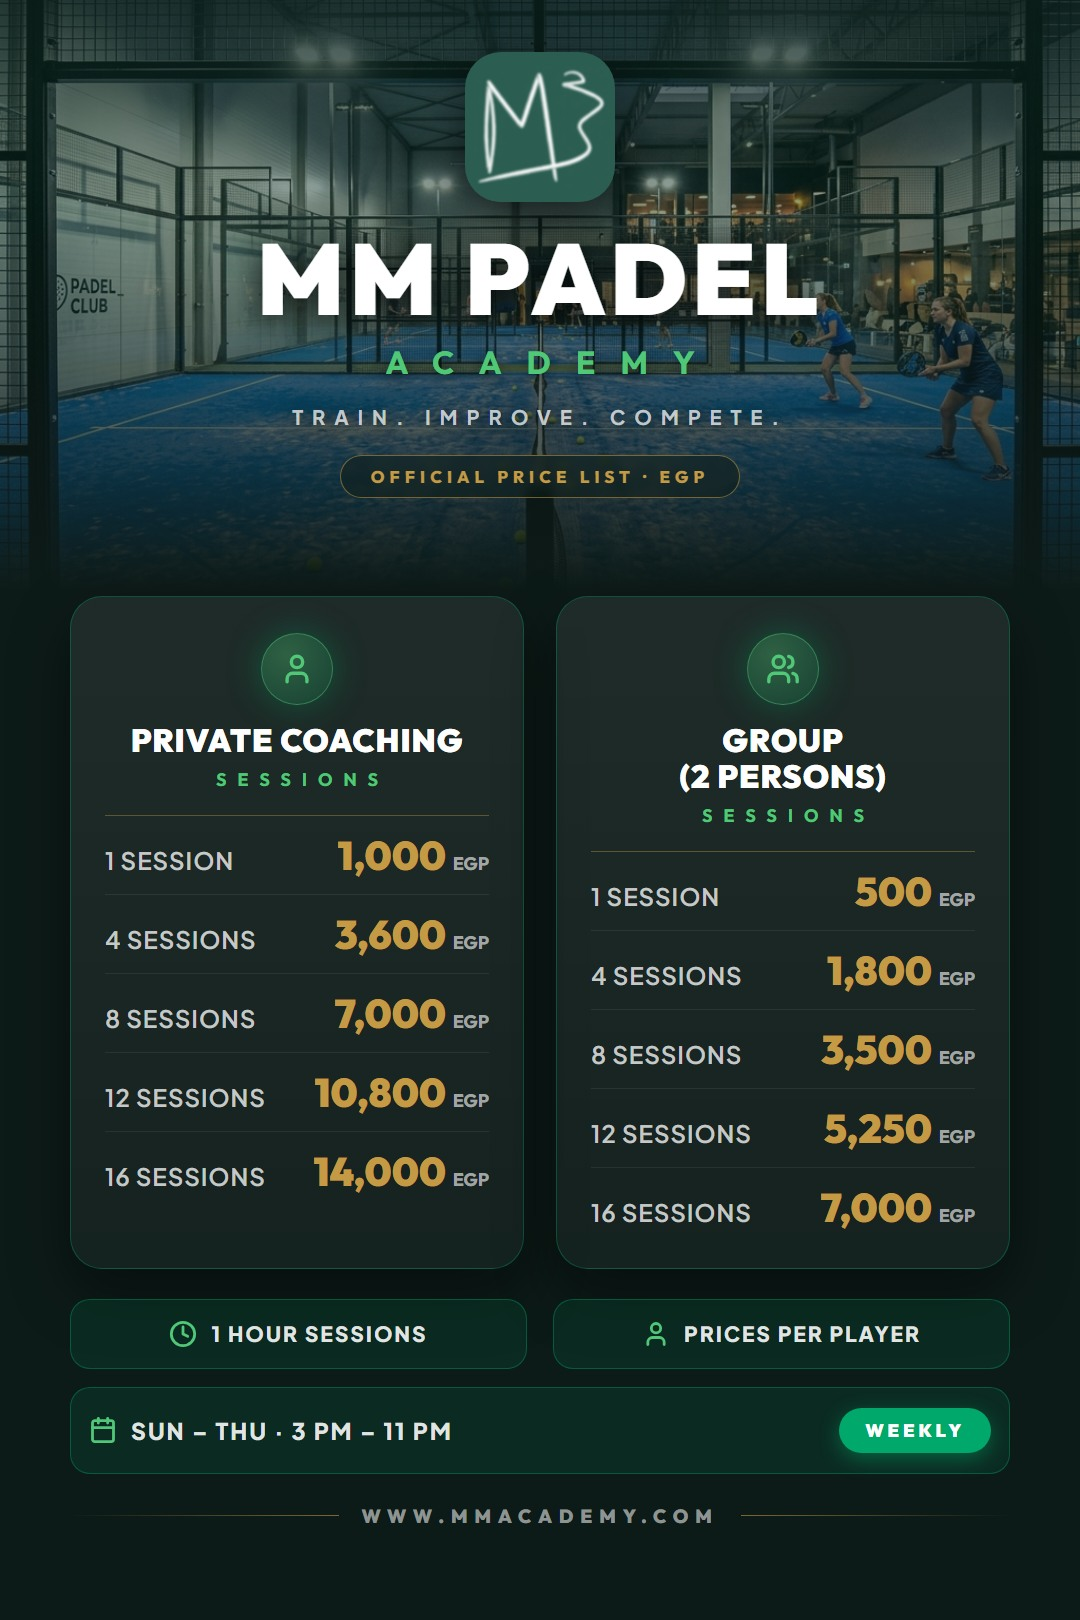
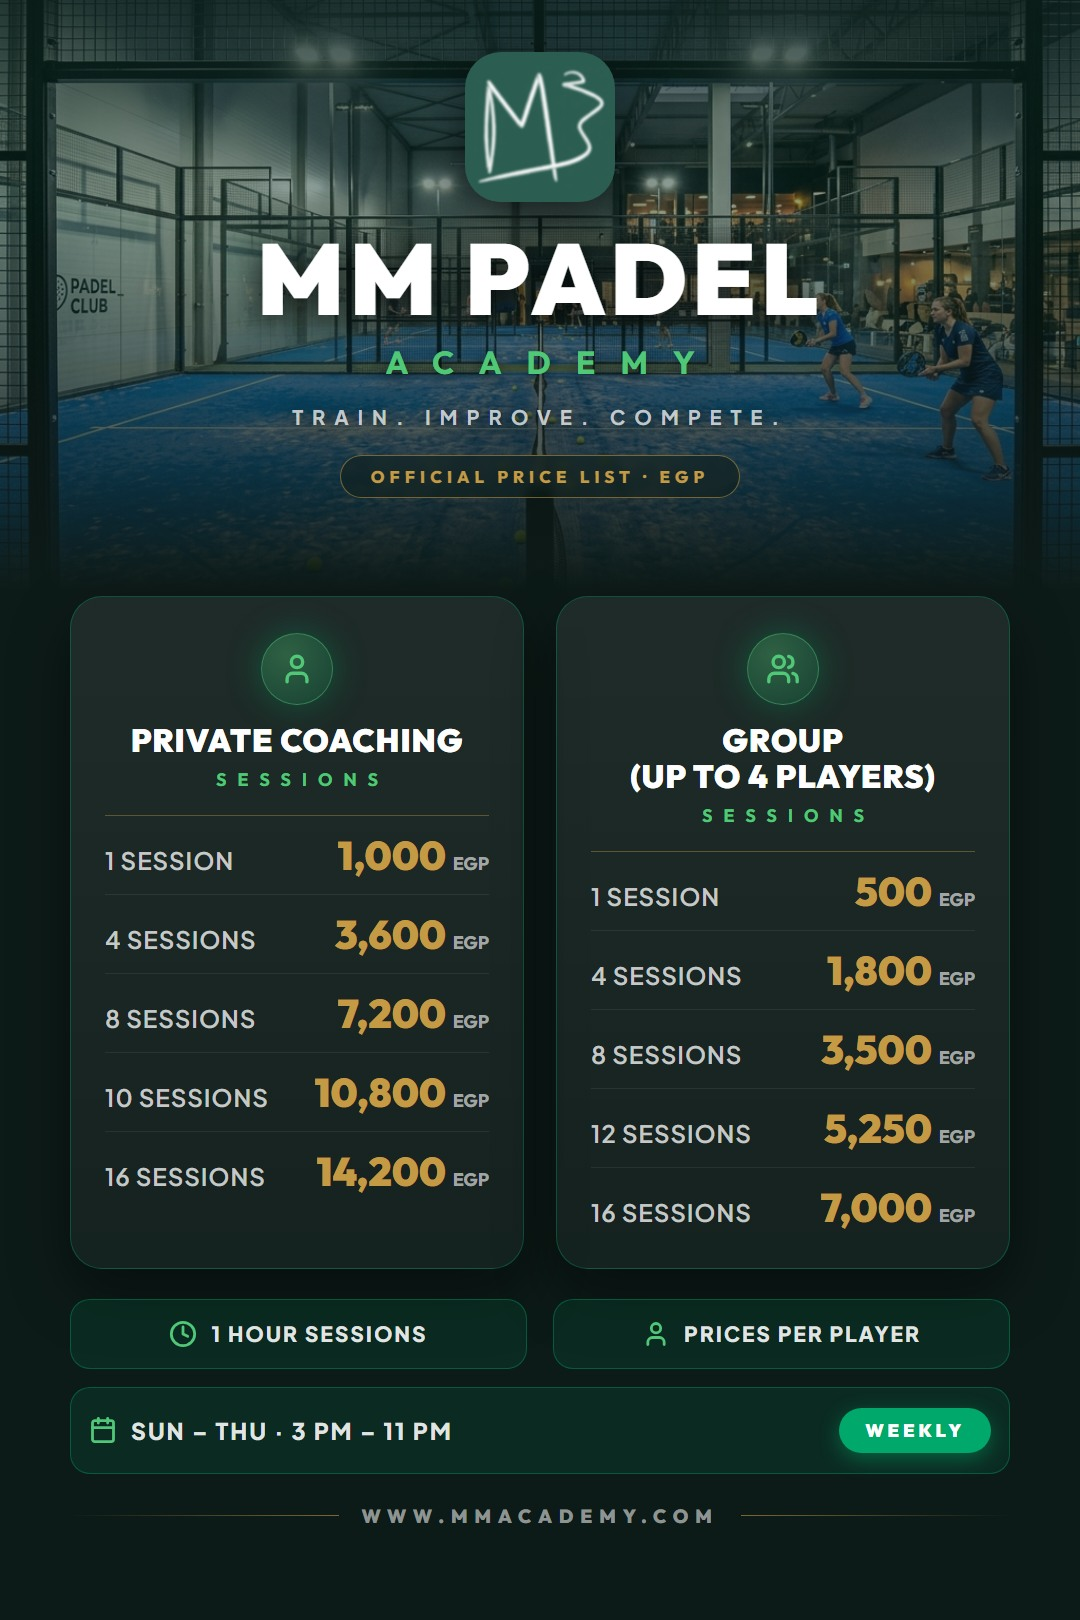
feat(pricing): private tiers 1/4/8/10/16 and group rename to Up to 4 Players
- Private: 1=1,000 / 4=3,600 / 8=7,200 / 10=10,800 / 16=14,200 (12 replaced by the named 10-pack)
- Group prices unchanged; renamed Group (Up to 4 Players) in labels, copy, and poster
- bestCoverage: break -> continue (non-monotonic prices: 15P 15,400 > 16P 14,200)
- Pack tiers (0,4,8,10,16) across pricing.js, periodSplit, packageAdvice, one-off scripts
- Pricing poster regenerated; Home pricing card renders packages side by side
- Tests reworked and extended: 65/65 passing

diff --git a/server/src/utils/pricing.js b/server/src/utils/pricing.js
@@ -11,7 +11,7 @@
  */
 
 export const PRICING = {
-  private: { 1: 1000, 4: 3600, 8: 7000, 12: 10800, 16: 14000 },
+  private: { 1: 1000, 4: 3600, 8: 7200, 10: 10800, 16: 14200 },
   group: { 1: 500, 4: 1800, 8: 3500, 12: 5250, 16: 7000 },
 }
 
@@ -77,9 +77,9 @@ function priceTable(type, max, staff = false) {
  * without exceeding `amount` — ties broken toward more private sessions
  * (private is the primary product), then more sessions.
  *
- * Examples (9 unpaid private, amount 7,000) → (8, 0): the 8-pack is 7,000,
+ * Examples (9 unpaid private, amount 7,200) → (8, 0): the 8-pack is 7,200,
  * so 8 sessions are covered and 1 stays unpaid.
- * Examples (16 unpaid private + 3 unpaid group, amount 15,500) → (16, 3).
+ * Examples (16 unpaid private + 3 unpaid group, amount 15,200) → (16, 2).
  */
 export function bestCoverage(amount, maxPrivate = 0, maxGroup = 0, opts = {}) {
   const cap = Math.max(0, Math.floor(Number(amount) || 0))
@@ -92,13 +92,16 @@ export function bestCoverage(amount, maxPrivate = 0, maxGroup = 0, opts = {}) {
   const pTable = priceTable('private', maxP, opts.staff)
   const gTable = priceTable('group', maxG, opts.staff)
 
+  // NOTE: greedy package prices are NOT monotonic in count (15P = 15,400 costs
+  // more than the 16-pack at 14,200), so neither loop may `break` early on a
+  // too-expensive row — every count must be considered.
   let best = { private: 0, group: 0, value: -1 }
   for (let p = 0; p <= maxP; p++) {
     const pv = pTable[p]
-    if (pv > cap) break
+    if (pv > cap) continue
     for (let g = 0; g <= maxG; g++) {
       const value = pv + gTable[g]
-      if (value > cap) break
+      if (value > cap) continue
       if (
         value > best.value ||
         (value === best.value && p > best.private) ||
@@ -113,10 +116,10 @@ export function bestCoverage(amount, maxPrivate = 0, maxGroup = 0, opts = {}) {
 }
 
 /**
- * Cheapest per-session rate in a tier table (e.g. private 16-pack = 875/session).
+ * Cheapest per-session rate in a tier table (e.g. private 16-pack = 887.5/session).
  * sessionsForAmount needs this — capping at the SINGLE rate assumes no session
  * ever costs less than one, which is false with bulk discounts and made the
- * 16-pack / 18-private answers unreachable (14,000 → 11P+9G instead of 16P).
+ * 16-pack answers unreachable (14,200 → fragmented mix instead of 16P).
  */
 function cheapestRate(type, staff = false) {
   const tier = tierFor(type, staff)
@@ -132,7 +135,7 @@ function cheapestRate(type, staff = false) {
 /**
  * Free credit for money that buys NEW sessions — same search but unbounded
  * (capped at what the cheapest per-session rate could ever buy, so bulk
- * packages are reachable: 14,000 → 16P, 16,000 → 18P).
+ * packages are reachable: 14,200 → 16P, 16,000 → 14P+3G).
  */
 export function sessionsForAmount(amount, opts = {}) {
   const cap = Math.max(0, Math.floor(Number(amount) || 0))
@@ -147,25 +150,25 @@ export function sessionsForAmount(amount, opts = {}) {
 //
 // A payment over 2 sessions is mapped to the NEAREST single-tier pack —
 // never single-session rates:
-//   * pack = (p, g) with p ∈ {0,4,8,12,16}, g ∈ {0,4,8,12,16} (each component a
-//     named package tier, mixed pairs allowed — Farida's 16P+8G = 17,500),
+//   * pack = (p, g) with p ∈ {0,4,8,10,16}, g ∈ {0,4,8,12,16} (each component a
+//     named package tier, mixed pairs allowed — Farida's 16P+8G = 17,700),
 //   * the pack is nearest to the CASH; upward packs may exceed it by at most
 //     15% (the "don't cost them a lot" cap),
 //   * DEBT PULL: when the cash-nearest pack is dusty (not an exact fit) AND
 //     the session debt exceeds that pack, re-target to the debt — a player
 //     clearing debt buys the pack that covers it (Farida's 16,000 against a
-//     17,500 debt → the 17,500 pack, −1,500 owed). An exact cash pack is
-//     never overridden (7,000 → the 8-pack stays, partial debt stays session
-//     debt),
+//     17,700 debt → the 17,700 pack, −1,700 owed). An exact cash pack is
+//     never overridden (7,000 → the 16-group pack stays, partial debt stays
+//     session debt),
 //   * ties → smaller pack (less owed), then more private,
-//   * values above the (16,16) = 21,000 catalog peel (16,16) packs first.
+//   * values above the (16,16) = 21,200 catalog peel (16,16) packs first.
 //
 // The difference cash − pack_value is the signed CASH GAP the caller records
 // on the ledger: negative = shortfall the player pays next month, positive =
 // prepaid cash carried forward. For pools ≤ 2 sessions the caller keeps the
 // exact value-max mix (singles allowed) — the exemption for small payments.
 // ---------------------------------------------------------------------------
-export const PACK_PRIVATE_TIERS = [0, 4, 8, 12, 16]
+export const PACK_PRIVATE_TIERS = [0, 4, 8, 10, 16]
 export const PACK_GROUP_TIERS = [0, 4, 8, 12, 16]
 export const PACK_UPWARD_TOLERANCE = 0.15
 
@@ -216,7 +219,7 @@ export function nearestPackPool(amount, debt = 0, opts = {}) {
   const base = pickFor(a)
   const baseDist = Math.abs(base.value - a)
   // Debt pull: only when the cash-nearest pack is dusty AND the debt exceeds
-  // it — an exact cash pack (7,000 → 8-pack) is never overridden.
+  // it — an exact cash pack (7,000 → 16-group pack) is never overridden.
   if (baseDist > 1e-6 && d > base.value + 1e-6) {
     const pulled = pickFor(Math.max(a, d))
     if (pulled.value >= base.value) return pulled

diff --git a/src/data/homeShowcase.js b/src/data/homeShowcase.js
@@ -1,7 +1,18 @@
 // Showcase content for the Home page (imagery + marketing copy).
-// Pricing truth lives in pricingData.js — the numbers below mirror it.
+// Pricing truth lives in pricingData.js — package strings below derive from it.
+
+import { PRICING } from './pricingData'
 
 const BASE = import.meta.env.BASE_URL
+
+// "1 Session (1,000 EGP) • 4 Sessions (3,600 EGP) • ..." from the live table.
+const packagesText = (type) =>
+  Object.keys(PRICING[type])
+    .filter((k) => k !== 'name')
+    .map(Number)
+    .sort((a, b) => a - b)
+    .map((c) => `${c} Session${c > 1 ? 's' : ''} (${PRICING[type][c].toLocaleString('en-US')} EGP)`)
+    .join(' • ')
 
 // Hero background video (Option 2 preview) — captured at the academy.
 export const HERO_VIDEO = `${BASE}videos/mm-padel-hero.mp4`
@@ -85,7 +96,7 @@ export const FAQS = [
   },
   {
     q: 'How much does a session cost?',
-    a: 'Private coaching starts at 1,000 EGP per player and group (2 persons) at 500 EGP per player, with multi-session package discounts.',
+    a: 'Private coaching starts at 1,000 EGP per player and group (up to 4 players) at 500 EGP per player, with multi-session package discounts.',
   },
   {
     q: 'How do I book a session?',
@@ -101,7 +112,7 @@ export const FAQS = [
   },
   {
     q: 'What is the difference between private and group coaching?',
-    a: 'Private sessions are focused 1-on-1 work; group sessions train two players together at a matched level for shared drills and match play.',
+    a: 'Private sessions are focused 1-on-1 work; group sessions train up to four players together at a matched level for shared drills and match play.',
   },
   {
     q: 'How do I track my remaining sessions?',
@@ -119,7 +130,7 @@ export const PROGRAMS = [
     image: `${import.meta.env.BASE_URL}images/court.png`,
     description:
       'Dedicated 1-on-1 coaching with personalised drills and technique work.',
-    packages: '1 Session (1,000 EGP) • 4 Sessions (3,600 EGP) • 8 Sessions (7,000 EGP) • 12 Sessions (10,800 EGP) • 16 Sessions (14,000 EGP)',
+    packages: packagesText('private'),
     features: [
       'Dedicated personal coach',
       'Technique, footwork & glass play',
@@ -129,15 +140,15 @@ export const PROGRAMS = [
   },
   {
     id: 'group',
-    title: 'Group (2 Persons)',
+    title: 'Group (Up to 4 Players)',
     priceText: '500 EGP / session',
     level: 'All Levels',
     duration: '1 Hour',
     image: `${import.meta.env.BASE_URL}images/clinic.png`,
-    description: 'High-energy 2-person group training matched by skill level.',
-    packages: '1 Session (500 EGP) • 4 Sessions (1,800 EGP) • 8 Sessions (3,500 EGP) • 16 Sessions (7,000 EGP)',
+    description: 'High-energy group training for up to 4 players, matched by skill level.',
+    packages: packagesText('group'),
     features: [
-      '2-person group sessions',
+      'Group sessions up to 4 players',
       'Match scenario drills',
       'Per player rate • 1 Hour duration',
       'Sun–Thu, 3:00 PM – 11:00 PM',

diff --git a/src/lib/packageAdvice.js b/src/lib/packageAdvice.js
@@ -5,7 +5,7 @@ import { PRICING, calculatePrice } from '../data/pricingData.js'
  * player detail. Mirrors server/_recommend-unpaid.mjs:
  *
  *   p_equiv  = P + G/2          (settlement rule 1P = 2G)
- *   nearest  = argmin |p_equiv - t| over tiers [1,4,8,12,16], tie -> larger
+ *   nearest  = argmin |p_equiv - t| over tiers [1,4,8,10,16], tie -> larger
  *   clearAll = smallest tier pack that covers every unpaid session and pays
  *              at an EXACT pack price (receipt "clear everything" option;
  *              roundUp/secondStep below are legacy private-only fields kept
@@ -15,14 +15,14 @@ import { PRICING, calculatePrice } from '../data/pricingData.js'
  * only labels it (server remains source of truth for paid status).
  */
 
-export const PRIVATE_TIERS = [1, 4, 8, 12, 16]
+export const PRIVATE_TIERS = [1, 4, 8, 10, 16]
 
 // ---------------------------------------------------------------------------
 // Clear-all pack — mirrors the server's Best-Package Rule (pricing.js
 // nearestPackPool + paymentAllocation) so the advice says "pay EGP X and
 // every unpaid session is covered", where X resolves to an EXACT pool on the
 // server (cash_gap = 0):
-//   * tier packs: p ∈ {0,4,8,12,16}, g ∈ {0,4,8,12,16} — peel (16,16) = 21,000
+//   * tier packs: p ∈ {0,4,8,10,16}, g ∈ {0,4,8,12,16} — peel (16,16) = 21,200
 //     packs above the catalog, same as server pickFor,
 //   * the allocator's ≤2-session singles exemption: 1G=500, 1P=1000,
 //     1P+1G=1500, 2P=2000 (exact value-max mixes),
@@ -30,9 +30,9 @@ export const PRIVATE_TIERS = [1, 4, 8, 12, 16]
 //     conversion) must be ≥ debt units, so the FIFO walk clears every slot,
 //   * smallest price wins, tie → more private.
 // ---------------------------------------------------------------------------
-const TIER_PRIVATE = [0, 4, 8, 12, 16]
+const TIER_PRIVATE = [0, 4, 8, 10, 16]
 const TIER_GROUP = [0, 4, 8, 12, 16]
-const MAX_PACK_VALUE = PRICING.private[16] + PRICING.group[16] // (16,16) = 21,000
+const MAX_PACK_VALUE = PRICING.private[16] + PRICING.group[16] // (16,16) = 21,200
 const SINGLES_MIXES = [
   { private: 0, group: 1, price: PRICING.group[1] },
   { private: 1, group: 0, price: PRICING.private[1] },

diff --git a/src/pages/Book.jsx b/src/pages/Book.jsx
@@ -38,7 +38,7 @@ const tierTag = (type) => {
 
 const SESSION_TYPES = [
   { value: 'private', label: 'Private Coaching', sub: '1-on-1 Personalised Coaching', tag: tierTag('private') },
-  { value: 'group', label: 'Group (2 Persons)', sub: '2-Person Group Session', tag: tierTag('group') },
+  { value: 'group', label: 'Group (Up to 4 Players)', sub: 'Group Session · Up to 4 Players', tag: tierTag('group') },
 ]
 
 const DAY_OPTIONS = [
@@ -267,7 +267,7 @@ export default function Book() {
               {sessionType === 'group' && (
                 <div className="pt-2 space-y-1.5">
                   <label className="block text-xs font-semibold text-theme uppercase tracking-wider">
-                    Partner name <span className="text-muted normal-case font-medium">(2-person group)</span>
+                    Partner name <span className="text-muted normal-case font-medium">(group session)</span>
                   </label>
                   {user ? (
                     <PlayerSearchInput

diff --git a/server/src/utils/periodSplit.js b/server/src/utils/periodSplit.js
@@ -11,7 +11,7 @@ import db from '../db.js'
  *     pre-period (arrears) / in-period / future-scheduled sessions and
  *     unclaimed credit (1P = 2G weight, so the parts sum to the amount),
  *   - packages sold: in-window payments whose (P, G) counts form a named
- *     tier pack (4/8/12/16 P, 4/8/12/16 G, mixed pairs like 16P+8G),
+ *     tier pack (4/8/10/16 P, 4/8/12/16 G, mixed pairs like 16P+8G),
  *   - private sessions without package: in-window private sessions that are
  *     paid but NOT covered by a named pack (singles, odd mixes, direct
  *     booking-flagged slots).
@@ -25,7 +25,7 @@ import db from '../db.js'
  */
 
 export const WEIGHT_PRIVATE = 2 // locked conversion 1P = 2G
-const PACK_PRIVATE_TIERS = [4, 8, 12, 16]
+const PACK_PRIVATE_TIERS = [4, 8, 10, 16]
 const PACK_GROUP_TIERS = [4, 8, 12, 16]
 
 /** Named-tier pack per the locked price list (mixed pairs allowed). */

diff --git a/server/src/utils/paymentAllocation.js b/server/src/utils/paymentAllocation.js
@@ -17,8 +17,8 @@ import { simulateFifo } from './convertBalance.js'
  *
  * Package-first (not "price the debt first") is deliberate: debt-first
  * fragmented bulk deals against fragments (7 private owed = 4-pack + 3 singles
- * = 6,600), shrinking an exact-7,000 package payment down to a 7-pool and
- * stranding 400 EGP with nowhere to go. Yasin Fathallah hit exactly this.
+ * = 6,600), shrinking an exact 7,200 package payment down to a 7-pool and
+ * stranding 600 EGP with nowhere to go. Yasin Fathallah hit exactly this.
  * The cost of package-first is that a small debt + big payment can credit
  * discount-priced sessions — accepted, documented in docs/task_complete.md.
  *

diff --git a/server/src/utils/sessionPaid.js b/server/src/utils/sessionPaid.js
@@ -66,7 +66,7 @@ export async function computePlayerSessions(player, { excludePaymentId = null } 
 
   const unpaidPrivate = sessions.filter(s => !s.paid && s.session_type !== 'group').length
   const unpaidGroup = sessions.filter(s => !s.paid && s.session_type === 'group').length
-  // Package priced: 16 private = 14,000 + 3 group = 1,500 → 15,500 (not 17,500).
+  // Package priced: 16 private = 14,200 + 3 group = 1,500 → 15,700 (not 17,500).
   // Staff (coaches / member_code 007) owe the flat rate instead.
   const amountOwed = packagePrice(unpaidPrivate, unpaidGroup, { staff: isStaffRateUser(player) })
 

diff --git a/src/pages/Payment.jsx b/src/pages/Payment.jsx
@@ -36,7 +36,7 @@ export default function Payment() {
   const [bookingReference, setBookingReference] = useState('')
   const [error, setError] = useState('')
 
-  const sessionLabel = sessionType === 'private' ? 'Private Coaching' : sessionType === 'group' ? 'Group (2 Persons)' : ''
+  const sessionLabel = sessionType === 'private' ? 'Private Coaching' : sessionType === 'group' ? 'Group (Up to 4 Players)' : ''
 
   const handleCopyLink = async () => {
     try { await navigator.clipboard.writeText(CONTACT.instapayUrl) } catch {}

diff --git a/src/pages/Home.jsx b/src/pages/Home.jsx
@@ -392,7 +392,7 @@ export default function Home() {
         <div className="max-w-7xl mx-auto px-4 sm:px-6 lg:px-8">
           <div className="grid grid-cols-1 lg:grid-cols-12 gap-12 items-center">
             <Reveal className="lg:col-span-5 relative flex justify-center">
-              <PricingCard className="max-w-sm" stack />
+              <PricingCard className="max-w-lg" />
             </Reveal>
 
             <div className="lg:col-span-7 space-y-6">

diff --git a/src/data/pricingData.js b/src/data/pricingData.js
@@ -4,12 +4,12 @@ export const PRICING = {
     name: 'Private Coaching',
     1: 1000,
     4: 3600,
-    8: 7000,
-    12: 10800,
-    16: 14000,
+    8: 7200,
+    10: 10800,
+    16: 14200,
   },
   group: {
-    name: 'Group (2 Persons)',
+    name: 'Group (Up to 4 Players)',
     1: 500,
     4: 1800,
     8: 3500,
